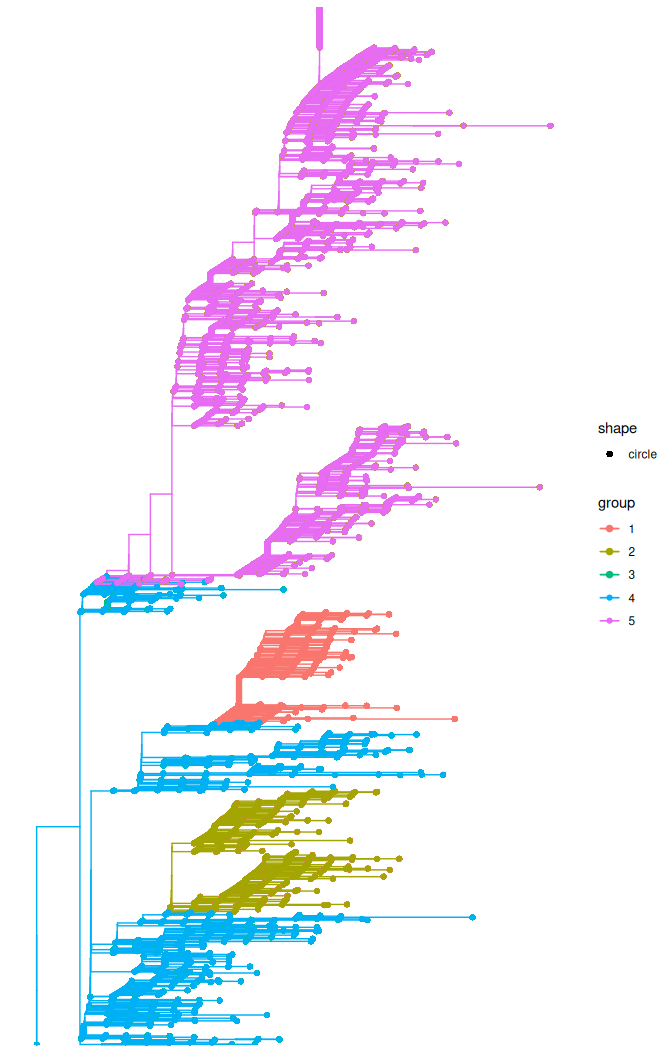
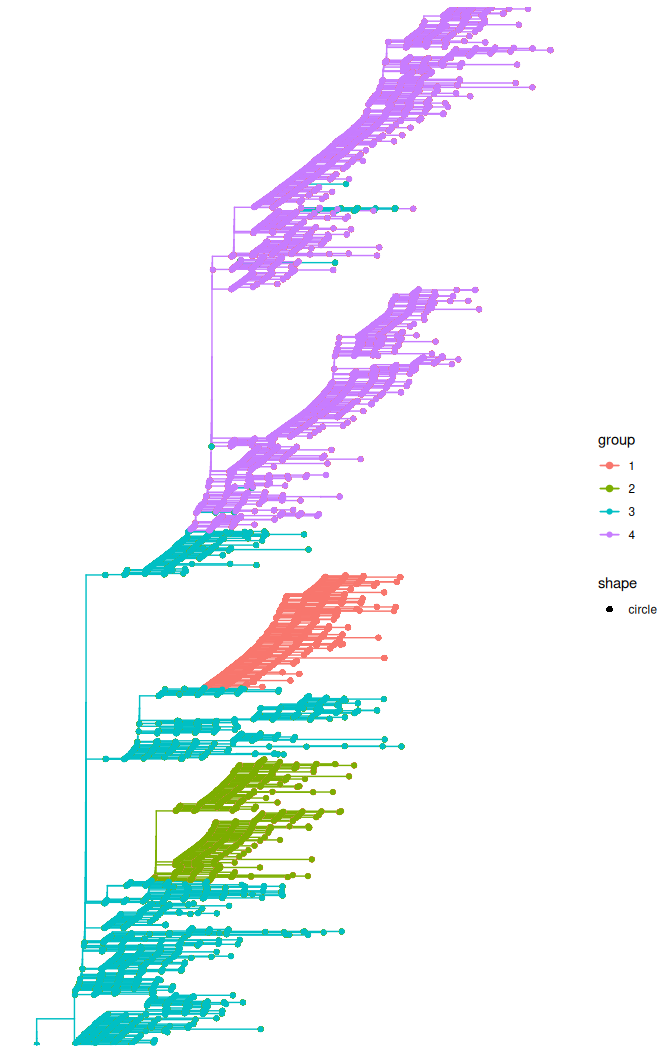
Deploying to gh-pages from @ emvolz-phylodynamics/treestructure@186b91e2c5047812e5654be06c949184866fa8bb 🚀

diff --git a/articles/supportValsUpdate.html b/articles/supportValsUpdate.html
@@ -71,7 +71,7 @@
       <h1>Node support values and update of treestructure object with new sequences</h1>
                         <h4 data-toc-skip class="author">Vinicius Franceschi</h4>
             
-            <h4 data-toc-skip class="date">2025-05-14</h4>
+            <h4 data-toc-skip class="date">2025-06-05</h4>
       
       <small class="dont-index">Source: <a href="https://github.com/emvolz-phylodynamics/treestructure/blob/master/vignettes/supportValsUpdate.Rmd" class="external-link"><code>vignettes/supportValsUpdate.Rmd</code></a></small>
       <div class="d-none name"><code>supportValsUpdate.Rmd</code></div>
@@ -103,7 +103,7 @@ likelihood (ML) tree with <a href="http://www.iqtree.org/" class="external-link"
 ultrafast bootstraps, a time-scaled tree using
 <a href="https://github.com/emvolz/treedater" class="external-link"><code>treedater</code></a> (strict clock and 0.0008 subst./site/year),
 removed outliers by root-to-tip regression,
-an then re-estimated the timetree without the outliers (n = 916).</p>
+an then re-estimated the timetree without the outliers (n = 891).</p>
 <p>Let’s load the resulting ML tree with bootstrap values:</p>
 <div class="sourceCode" id="cb1"><pre class="downlit sourceCode r">
 <code class="sourceCode R"><span><span class="kw"><a href="https://rdrr.io/r/base/library.html" class="external-link">library</a></span><span class="op">(</span><span class="va"><a href="http://emvolz-phylodynamics.github.io/treestructure/" class="external-link">treestructure</a></span><span class="op">)</span></span></code></pre></div>
@@ -129,14 +129,14 @@ an then re-estimated the timetree without the outliers (n = 916).</p>
 <span>                                minCladeSize <span class="op">=</span> <span class="fl">30</span>, </span>
 <span>                                nodeSupportValues <span class="op">=</span> <span class="cn">FALSE</span>, </span>
 <span>                                level <span class="op">=</span> <span class="fl">0.01</span><span class="op">)</span></span></code></pre></div>
-<p>Because running <code>treestructure</code> will take several minutes to run, we can load the results:</p>
+<p>Because <code>treestructure</code> will take several minutes to run, we can load the results:</p>
 <div class="sourceCode" id="cb5"><pre class="downlit sourceCode r">
 <code class="sourceCode R"><span><span class="va">trestruct_res_nobt</span> <span class="op">&lt;-</span> <span class="fu"><a href="https://rdrr.io/r/base/readRDS.html" class="external-link">readRDS</a></span><span class="op">(</span> <span class="fu"><a href="https://rdrr.io/r/base/system.file.html" class="external-link">system.file</a></span><span class="op">(</span><span class="st">'trestruct_res_nobt.rds'</span>,</span>
 <span>                                           package<span class="op">=</span><span class="st">'treestructure'</span><span class="op">)</span> <span class="op">)</span></span>
 <span></span>
 <span><span class="fu"><a href="https://rdrr.io/r/graphics/plot.default.html" class="external-link">plot</a></span><span class="op">(</span><span class="va">trestruct_res_nobt</span>, use_ggtree <span class="op">=</span> <span class="cn">T</span><span class="op">)</span> <span class="op">+</span> <span class="fu">ggtree</span><span class="fu">::</span><span class="fu"><a href="https://rdrr.io/pkg/ggtree/man/geom_tippoint.html" class="external-link">geom_tippoint</a></span><span class="op">(</span><span class="op">)</span></span></code></pre></div>
 <p><img src="supportValsUpdate_files/figure-html/unnamed-chunk-5-1.png"><!-- --></p>
-<p>The <code>treestructure</code> analyses resulted in 9 clusters.</p>
+<p>The <code>treestructure</code> analyses resulted in 13 clusters.</p>
 </div>
 <div class="section level3">
 <h3 id="assign-clusters-using-bootstrap-support">Assign clusters using bootstrap support<a class="anchor" aria-label="anchor" href="#assign-clusters-using-bootstrap-support"></a>
@@ -145,66 +145,18 @@ an then re-estimated the timetree without the outliers (n = 916).</p>
 <div class="sourceCode" id="cb6"><pre class="downlit sourceCode r">
 <code class="sourceCode R"><span><span class="va">timetr2_boot</span> <span class="op">&lt;-</span> <span class="fu"><a href="https://rdrr.io/r/base/integer.html" class="external-link">as.integer</a></span><span class="op">(</span><span class="va">mltr2_outl_rm</span><span class="op">$</span><span class="va">node.label</span><span class="op">)</span></span>
 <span><span class="co">#&gt; Warning: NAs introduced by coercion</span></span>
+<span></span>
+<span><span class="co">#note that IQ-TREE does not give a node support for the "root" of the tree,</span></span>
+<span><span class="co">#You, as a user with knowledge of your data, will decide if this should be </span></span>
+<span><span class="co">#a high or low support value.</span></span>
 <span><span class="va">timetr2_boot</span><span class="op">[</span><span class="fu"><a href="https://rdrr.io/r/base/NA.html" class="external-link">is.na</a></span><span class="op">(</span><span class="va">timetr2_boot</span><span class="op">)</span><span class="op">]</span> <span class="op">&lt;-</span> <span class="fl">95</span></span>
-<span><span class="fu"><a href="https://rdrr.io/r/base/print.html" class="external-link">print</a></span><span class="op">(</span><span class="va">timetr2_boot</span><span class="op">)</span></span>
-<span><span class="co">#&gt;   [1]  95 100  12   3   6   2   6   7   1   6   5   7   6   6   7  11  50  99</span></span>
-<span><span class="co">#&gt;  [19]   8   7   8 100   9   9   9  10   8   8   9   5   8   8  35  89   5   6</span></span>
-<span><span class="co">#&gt;  [37]  10   9   8  10   5  24 100 100  75  26 100  67  74  95 100  95   5   2</span></span>
-<span><span class="co">#&gt;  [55]  15 100 100  91  91   8 100  92   2  89  98  17   9  18   8 100 100 100</span></span>
-<span><span class="co">#&gt;  [73]  71 100 100 100  19   7   7   8  19 100  83 100  83  84  20   9  16  20</span></span>
-<span><span class="co">#&gt;  [91] 100   9  23  18  95  13  22  24 100  93  96  16   6   8   8  23   9   7</span></span>
-<span><span class="co">#&gt; [109]   9   5   3   4  19  17 100  84  82  95  95   5 100  13   6  99  47  16</span></span>
-<span><span class="co">#&gt; [127]  95   7  11  12  23  95  95  95  95 100  12   8  95  95   7  10  66 100</span></span>
-<span><span class="co">#&gt; [145]  95  95  59  44   8  24  47  37  10   8   7   7  10   7   6   7   6   7</span></span>
-<span><span class="co">#&gt; [163]   5   5   6   1   7   5   3  14 100 100   5   5   9  16 100  94 100  37</span></span>
-<span><span class="co">#&gt; [181]  23  95  95  95  95  95  95  95  95  11  18  20 100  24  11  99 100  93</span></span>
-<span><span class="co">#&gt; [199]  95  95  95  99   6   5   3   9  73  19   7   6   4  21 100   6   2  95</span></span>
-<span><span class="co">#&gt; [217]  95  95  95  95  95  95  95  95  95  95  95   8  11  99 100  96   7  10</span></span>
-<span><span class="co">#&gt; [235]  95  95  26   9   8   8   4  10 100  96  95  95  95  95  19 100  79  61</span></span>
-<span><span class="co">#&gt; [253] 100   8  25 100   3  13 100  95  95  95  95  95  95  95  95  95  95  95</span></span>
-<span><span class="co">#&gt; [271]  95  95  95  95  95  95  95  95  95  95  95  95  95  95  95  95  95  95</span></span>
-<span><span class="co">#&gt; [289]  11 100  10  17 100  40  10  76  52  10  80  93  61  73  73   9  10 100</span></span>
-<span><span class="co">#&gt; [307]  94  66   6  18 100  95  95 100  76  90  27  11   9   8   9  12 100   8</span></span>
-<span><span class="co">#&gt; [325]  13 100  11 100  96  95  95  95  95  95  95  95  95  95  95  95  95  95</span></span>
-<span><span class="co">#&gt; [343]  95  95  95  95  95  95  95  95  95  95  95  95  95  95  95   8  32 100</span></span>
-<span><span class="co">#&gt; [361]   7 100  95   8 100  85  91  87  98  98  96   9  99  88  86   9 100   7</span></span>
-<span><span class="co">#&gt; [379] 100  93  87 100 100  94  16 100 100  95  95  95  95   9   9  10   8   9</span></span>
-<span><span class="co">#&gt; [397]  11   8  14  71  91  84  87  95  95  92  77  75 100 100 100 100   3   9</span></span>
-<span><span class="co">#&gt; [415]  29  28   6   7   8   9  10  33  95  95  95   9  99 100  21  95  95  95</span></span>
-<span><span class="co">#&gt; [433]  95  95  95  95  95  95  95  95  95  95  54  25  29  91  25   6   8   9</span></span>
-<span><span class="co">#&gt; [451]  13   6  95  99  10 100  10 100 100  27   5   4  17 100  93 100  41  47</span></span>
-<span><span class="co">#&gt; [469]  10 100  95  95  95 100  99  95 100 100   7   7  10  98  58  21  20 100</span></span>
-<span><span class="co">#&gt; [487]  95   5  65  83  60   2   7 100 100  93   8   6   9 100 100  85  95  95</span></span>
-<span><span class="co">#&gt; [505]  95  86  11 100  95  95  95  95  95 100 100   6   5   6   9   7   7   5</span></span>
-<span><span class="co">#&gt; [523]   5   7   4   7   7   7   7   6   5  11  15   9   3   4   2   5   6   6</span></span>
-<span><span class="co">#&gt; [541]   2   8   6   5   6   7   6   7   6   8   9  27   6  11   6   5  29 100</span></span>
-<span><span class="co">#&gt; [559]  17  28  99   8   4   5  43  46  99  93  18 100   7   7  35  82  98  96</span></span>
-<span><span class="co">#&gt; [577]  66   6   7  88   2   1   5  17  29  40  13 100  58  52  53  68  26 100</span></span>
-<span><span class="co">#&gt; [595]  93 100 100  95  14  95  11  45  75  34  36   9   4   9  23  34  24   5</span></span>
-<span><span class="co">#&gt; [613]   4   4   8  12   7   1   6   6  11  98  95  72  95   5   5   8  35  95</span></span>
-<span><span class="co">#&gt; [631]  28  99  99  30   5  10  10   6   7   2   2   2   2   2   1   6   5  32</span></span>
-<span><span class="co">#&gt; [649]  25  32  61   3   7  10  15  20   8  18 100  98  95   7   8   8  10 100</span></span>
-<span><span class="co">#&gt; [667]  12  95  95  95  95  95  95  95  95  95  13  10  14  18   9 100  99   7</span></span>
-<span><span class="co">#&gt; [685]   3   6  95  95  95  95  95  95  95  95  95  95  95  95  95  95  95  95</span></span>
-<span><span class="co">#&gt; [703]  95  95  95  95  95  95  95  95  95  95  95  95  95  95  95  95  95  95</span></span>
-<span><span class="co">#&gt; [721]  95  95  19  10   9   6   6   9   2   7   6   6   5   7   9 100   2   8</span></span>
-<span><span class="co">#&gt; [739] 100  96   3   8  16  17 100   9 100  96  14 100  57  56 100   7  10   1</span></span>
-<span><span class="co">#&gt; [757]   6  10  51  13  95  11  16  35 100  79 100  87  99 100  84  85  30 100</span></span>
-<span><span class="co">#&gt; [775]  95   9 100  23  14 100   6   6   6  12  95  95  95   8  32 100  45  38</span></span>
-<span><span class="co">#&gt; [793]  95  56  99  95  78  86  95 100 100   7   6 100   8   3   3   8  14   9</span></span>
-<span><span class="co">#&gt; [811]  99  85  91   8   9  11  97   2  10   9   5  10 100  10   9 100   7  10</span></span>
-<span><span class="co">#&gt; [829]   2  95  95  95  95  95  95  95  95  95  95  95  95  95  95  95  95  95</span></span>
-<span><span class="co">#&gt; [847]  95  95  95  95  95  95  95  95  95  95  95  95  95  95  95  95  95  95</span></span>
-<span><span class="co">#&gt; [865]  95  95  95  95  95  95  95  95  95  95  95  95  95  95  11 100   9  99</span></span>
-<span><span class="co">#&gt; [883] 100  14   9 100  48  42   9  47  45  91  62  98 100  94</span></span></code></pre></div>
-<p>Note that in the above example, some branches did not show a branch support as
-the tree was estimated with IQ-TREE and the alignment contained many identical tips.
-In our example we will assign to all these branches without a branch support, a
-node support of 95. However, in your own example, if too many identical sequences
-are present and if you want to estimate the branch support for all branches
-when estimating a tree with IQ-TREE, you should use the flag <code>-keep-ident</code>. See
-<a href="https://github.com/iqtree/iqtree2/issues/343" class="external-link">here</a> for further details.</p>
-<p>And, finally, we designate clusters that have at least 80% bootstrap support:</p>
+<span></span>
+<span><span class="co">#show the first 6 node support values.</span></span>
+<span><span class="fu"><a href="https://rdrr.io/r/base/print.html" class="external-link">print</a></span><span class="op">(</span><span class="fu"><a href="https://rdrr.io/r/utils/head.html" class="external-link">head</a></span><span class="op">(</span><span class="va">timetr2_boot</span><span class="op">)</span><span class="op">)</span></span>
+<span><span class="co">#&gt; [1]  95 100   8   3   5   8</span></span></code></pre></div>
+<p>Finally, we designate clusters that have at least 80% bootstrap support. This
+is achieved by setting to 80 the parameter <em>nodeSupportThreshold</em> in the <strong>trestruct</strong>
+function.</p>
 <div class="sourceCode" id="cb7"><pre class="downlit sourceCode r">
 <code class="sourceCode R"><span><span class="va">trestruct_res</span> <span class="op">&lt;-</span> <span class="fu"><a href="../reference/trestruct.html">trestruct</a></span><span class="op">(</span><span class="va">timetr2_phylo</span>, </span>
 <span>                           minCladeSize <span class="op">=</span> <span class="fl">30</span>, </span>
@@ -218,18 +170,22 @@ when estimating a tree with IQ-TREE, you should use the flag <code>-keep-ident</
 <span></span>
 <span><span class="fu"><a href="https://rdrr.io/r/graphics/plot.default.html" class="external-link">plot</a></span><span class="op">(</span><span class="va">trestruct_res</span>, use_ggtree <span class="op">=</span> <span class="cn">T</span><span class="op">)</span> <span class="op">+</span> <span class="fu">ggtree</span><span class="fu">::</span><span class="fu"><a href="https://rdrr.io/pkg/ggtree/man/geom_tippoint.html" class="external-link">geom_tippoint</a></span><span class="op">(</span><span class="op">)</span></span></code></pre></div>
 <p><img src="supportValsUpdate_files/figure-html/unnamed-chunk-8-1.png"><!-- --></p>
-<p>Now we have only 5 well-supported clusters with differences in coalescent patterns.</p>
+<p>Now we have only 4 well-supported clusters with differences in coalescent patterns.
+Note that this might change if you use a higher or lower value for the
+<em>nodeSupportThreshold</em> in the <strong>trestruct</strong> function.</p>
 </div>
 <div class="section level3">
 <h3 id="update-a-previous-treestrucuture-object-with-new-sequences">Update a previous treestrucuture object with new sequences<a class="anchor" aria-label="anchor" href="#update-a-previous-treestrucuture-object-with-new-sequences"></a>
 </h3>
 <p>To update the previous <code>treestructure</code> object with new sequences, we extracted
-SARS-CoV-2 sequences up to 15 March 2020 (n &gt; 6,500 sequences). We then estimated
+SARS-CoV-2 sequences up to 15 March 2020 (n &gt; 6,712 sequences). We then estimated
 a new ML tree including all those sequences as before.</p>
 <p>Note that this new tree must be rooted, but does not need to be time-scaled or
 binary.</p>
 <div class="sourceCode" id="cb9"><pre class="downlit sourceCode r">
-<code class="sourceCode R"><span><span class="va">mltr_addtips</span> <span class="op">&lt;-</span> <span class="fu"><a href="https://rdrr.io/r/base/readRDS.html" class="external-link">readRDS</a></span><span class="op">(</span> <span class="fu"><a href="https://rdrr.io/r/base/system.file.html" class="external-link">system.file</a></span><span class="op">(</span><span class="st">'mltr_addtips_mar2020.rds'</span>, </span>
+<code class="sourceCode R"><span><span class="co">#Note that this tree has more sequences than the previous tree used in this</span></span>
+<span><span class="co">#tutorial.</span></span>
+<span><span class="va">mltr_addtips</span> <span class="op">&lt;-</span> <span class="fu"><a href="https://rdrr.io/r/base/readRDS.html" class="external-link">readRDS</a></span><span class="op">(</span> <span class="fu"><a href="https://rdrr.io/r/base/system.file.html" class="external-link">system.file</a></span><span class="op">(</span><span class="st">'mltr_addtips_mar2020.rds'</span>, </span>
 <span>                                     package<span class="op">=</span><span class="st">'treestructure'</span><span class="op">)</span> <span class="op">)</span></span>
 <span><span class="fu">ggtree</span><span class="fu">::</span><span class="fu"><a href="https://rdrr.io/pkg/ggtree/man/ggtree.html" class="external-link">ggtree</a></span><span class="op">(</span><span class="va">mltr_addtips</span><span class="op">)</span></span></code></pre></div>
 <p><img src="supportValsUpdate_files/figure-html/unnamed-chunk-9-1.png"><!-- --></p>
@@ -241,6 +197,28 @@ we are now able to add the new sequences to the existing <code>treestructure</co
 <span><span class="co">#&gt;          </span></span>
 <span><span class="fu"><a href="https://rdrr.io/r/graphics/plot.default.html" class="external-link">plot</a></span><span class="op">(</span><span class="va">trestruct_add_tips</span>, use_ggtree <span class="op">=</span> <span class="cn">T</span><span class="op">)</span> <span class="op">+</span> <span class="fu">ggtree</span><span class="fu">::</span><span class="fu"><a href="https://rdrr.io/pkg/ggtree/man/geom_tippoint.html" class="external-link">geom_tippoint</a></span><span class="op">(</span><span class="op">)</span></span></code></pre></div>
 <p><img src="supportValsUpdate_files/figure-html/unnamed-chunk-10-1.png"><!-- --></p>
+<p>If you would like to compare the sequence names that comprise each cluster in
+each tree, you can do:</p>
+<div class="sourceCode" id="cb11"><pre class="downlit sourceCode r">
+<code class="sourceCode R"><span></span>
+<span><span class="co">#compare sequences in cluster 1 from trestruct_res object and the </span></span>
+<span><span class="co">#trestruct_add_tips object</span></span>
+<span></span>
+<span><span class="va">tree1_cluster1</span> <span class="op">&lt;-</span> <span class="va">trestruct_res</span><span class="op">$</span><span class="va">clusterSets</span><span class="op">$</span><span class="va">`1`</span></span>
+<span><span class="va">tree2_cluster1</span> <span class="op">&lt;-</span> <span class="va">trestruct_add_tips</span><span class="op">$</span><span class="va">clusterSets</span><span class="op">$</span><span class="va">`1`</span></span>
+<span></span>
+<span><span class="fu"><a href="https://rdrr.io/r/base/length.html" class="external-link">length</a></span><span class="op">(</span><span class="va">tree1_cluster1</span><span class="op">)</span></span>
+<span><span class="co">#&gt; [1] 55</span></span>
+<span><span class="fu"><a href="https://rdrr.io/r/base/length.html" class="external-link">length</a></span><span class="op">(</span><span class="va">tree2_cluster1</span><span class="op">)</span></span>
+<span><span class="co">#&gt; [1] 728</span></span></code></pre></div>
+<p>Note that the length of tree1_cluster1 and tree2_cluster1 is different.
+That is because we <em>added</em> tips from the ML tree, <em>mltr_addtips</em>, to the
+<code>treestructure</code> object, <em>trestruct_res</em>.</p>
+<p>You can also see that all elements in tree1_cluster1 is contained in tree2_cluster1</p>
+<div class="sourceCode" id="cb12"><pre class="downlit sourceCode r">
+<code class="sourceCode R"><span></span>
+<span><span class="fu"><a href="https://rdrr.io/r/base/sum.html" class="external-link">sum</a></span><span class="op">(</span><span class="va">tree1_cluster1</span> <span class="op"><a href="https://rdrr.io/r/base/match.html" class="external-link">%in%</a></span> <span class="va">tree2_cluster1</span><span class="op">)</span></span>
+<span><span class="co">#&gt; [1] 55</span></span></code></pre></div>
 </div>
 </div>
   </main><aside class="col-md-3"><nav id="toc" aria-label="Table of contents"><h2>On this page</h2>
@@ -256,7 +234,7 @@ Website developed by <a href="https://profiles.imperial.ac.uk/f.ferreira-do-nasc
 </div>
 
 <div class="pkgdown-footer-right">
-  <p>Site built with <a href="https://pkgdown.r-lib.org/" class="external-link">pkgdown</a> 2.1.2.</p>
+  <p>Site built with <a href="https://pkgdown.r-lib.org/" class="external-link">pkgdown</a> 2.1.3.</p>
 </div>
 
     </footer>

diff --git a/articles/treestructure.html b/articles/treestructure.html
@@ -71,7 +71,7 @@
       <h1>treestructure applied to structured coalescent simulation</h1>
                         <h4 data-toc-skip class="author">Erik Volz</h4>
             
-            <h4 data-toc-skip class="date">2025-05-14</h4>
+            <h4 data-toc-skip class="date">2025-06-05</h4>
       
       <small class="dont-index">Source: <a href="https://github.com/emvolz-phylodynamics/treestructure/blob/master/vignettes/treestructure.Rmd" class="external-link"><code>vignettes/treestructure.Rmd</code></a></small>
       <div class="d-none name"><code>treestructure.Rmd</code></div>
@@ -248,7 +248,7 @@ Website developed by <a href="https://profiles.imperial.ac.uk/f.ferreira-do-nasc
 </div>
 
 <div class="pkgdown-footer-right">
-  <p>Site built with <a href="https://pkgdown.r-lib.org/" class="external-link">pkgdown</a> 2.1.2.</p>
+  <p>Site built with <a href="https://pkgdown.r-lib.org/" class="external-link">pkgdown</a> 2.1.3.</p>
 </div>
 
     </footer>

diff --git a/reference/addtips.html b/reference/addtips.html
@@ -166,7 +166,7 @@ Website developed by <a href="https://profiles.imperial.ac.uk/f.ferreira-do-nasc
 </div>
 
 <div class="pkgdown-footer-right">
-  <p>Site built with <a href="https://pkgdown.r-lib.org/" class="external-link">pkgdown</a> 2.1.2.</p>
+  <p>Site built with <a href="https://pkgdown.r-lib.org/" class="external-link">pkgdown</a> 2.1.3.</p>
 </div>
 
     </footer></div>

diff --git a/reference/plot.TreeStructure.html b/reference/plot.TreeStructure.html
@@ -125,7 +125,7 @@ Website developed by <a href="https://profiles.imperial.ac.uk/f.ferreira-do-nasc
 </div>
 
 <div class="pkgdown-footer-right">
-  <p>Site built with <a href="https://pkgdown.r-lib.org/" class="external-link">pkgdown</a> 2.1.2.</p>
+  <p>Site built with <a href="https://pkgdown.r-lib.org/" class="external-link">pkgdown</a> 2.1.3.</p>
 </div>
 
     </footer></div>

diff --git a/reference/treestructure.test.html b/reference/treestructure.test.html
@@ -147,7 +147,7 @@ Website developed by <a href="https://profiles.imperial.ac.uk/f.ferreira-do-nasc
 </div>
 
 <div class="pkgdown-footer-right">
-  <p>Site built with <a href="https://pkgdown.r-lib.org/" class="external-link">pkgdown</a> 2.1.2.</p>
+  <p>Site built with <a href="https://pkgdown.r-lib.org/" class="external-link">pkgdown</a> 2.1.3.</p>
 </div>
 
     </footer></div>

diff --git a/reference/trestruct.html b/reference/trestruct.html
@@ -214,7 +214,7 @@ Website developed by <a href="https://profiles.imperial.ac.uk/f.ferreira-do-nasc
 </div>
 
 <div class="pkgdown-footer-right">
-  <p>Site built with <a href="https://pkgdown.r-lib.org/" class="external-link">pkgdown</a> 2.1.2.</p>
+  <p>Site built with <a href="https://pkgdown.r-lib.org/" class="external-link">pkgdown</a> 2.1.3.</p>
 </div>
 
     </footer></div>

diff --git a/articles/index.html b/articles/index.html
@@ -66,7 +66,7 @@ Website developed by <a href="https://profiles.imperial.ac.uk/f.ferreira-do-nasc
 </div>
 
 <div class="pkgdown-footer-right">
-  <p>Site built with <a href="https://pkgdown.r-lib.org/" class="external-link">pkgdown</a> 2.1.2.</p>
+  <p>Site built with <a href="https://pkgdown.r-lib.org/" class="external-link">pkgdown</a> 2.1.3.</p>
 </div>
 
     </footer></div>

diff --git a/authors.html b/authors.html
@@ -92,7 +92,7 @@ Website developed by <a href="https://profiles.imperial.ac.uk/f.ferreira-do-nasc
 </div>
 
 <div class="pkgdown-footer-right">
-  <p>Site built with <a href="https://pkgdown.r-lib.org/" class="external-link">pkgdown</a> 2.1.2.</p>
+  <p>Site built with <a href="https://pkgdown.r-lib.org/" class="external-link">pkgdown</a> 2.1.3.</p>
 </div>
 
     </footer></div>

diff --git a/reference/index.html b/reference/index.html
@@ -93,7 +93,7 @@ Website developed by <a href="https://profiles.imperial.ac.uk/f.ferreira-do-nasc
 </div>
 
 <div class="pkgdown-footer-right">
-  <p>Site built with <a href="https://pkgdown.r-lib.org/" class="external-link">pkgdown</a> 2.1.2.</p>
+  <p>Site built with <a href="https://pkgdown.r-lib.org/" class="external-link">pkgdown</a> 2.1.3.</p>
 </div>
 
     </footer></div>

diff --git a/reference/treestructure-package.html b/reference/treestructure-package.html
@@ -93,7 +93,7 @@ Website developed by <a href="https://profiles.imperial.ac.uk/f.ferreira-do-nasc
 </div>
 
 <div class="pkgdown-footer-right">
-  <p>Site built with <a href="https://pkgdown.r-lib.org/" class="external-link">pkgdown</a> 2.1.2.</p>
+  <p>Site built with <a href="https://pkgdown.r-lib.org/" class="external-link">pkgdown</a> 2.1.3.</p>
 </div>
 
     </footer></div>

diff --git a/index.html b/index.html
@@ -149,7 +149,7 @@ Website developed by <a href="https://profiles.imperial.ac.uk/f.ferreira-do-nasc
 </div>
 
 <div class="pkgdown-footer-right">
-  <p>Site built with <a href="https://pkgdown.r-lib.org/" class="external-link">pkgdown</a> 2.1.2.</p>
+  <p>Site built with <a href="https://pkgdown.r-lib.org/" class="external-link">pkgdown</a> 2.1.3.</p>
 </div>
 
     </footer>

diff --git a/404.html b/404.html
@@ -83,7 +83,7 @@ Website developed by <a href="https://profiles.imperial.ac.uk/f.ferreira-do-nasc
 </div>
 
 <div class="pkgdown-footer-right">
-  <p>Site built with <a href="https://pkgdown.r-lib.org/" class="external-link">pkgdown</a> 2.1.2.</p>
+  <p>Site built with <a href="https://pkgdown.r-lib.org/" class="external-link">pkgdown</a> 2.1.3.</p>
 </div>
 
     </footer>
